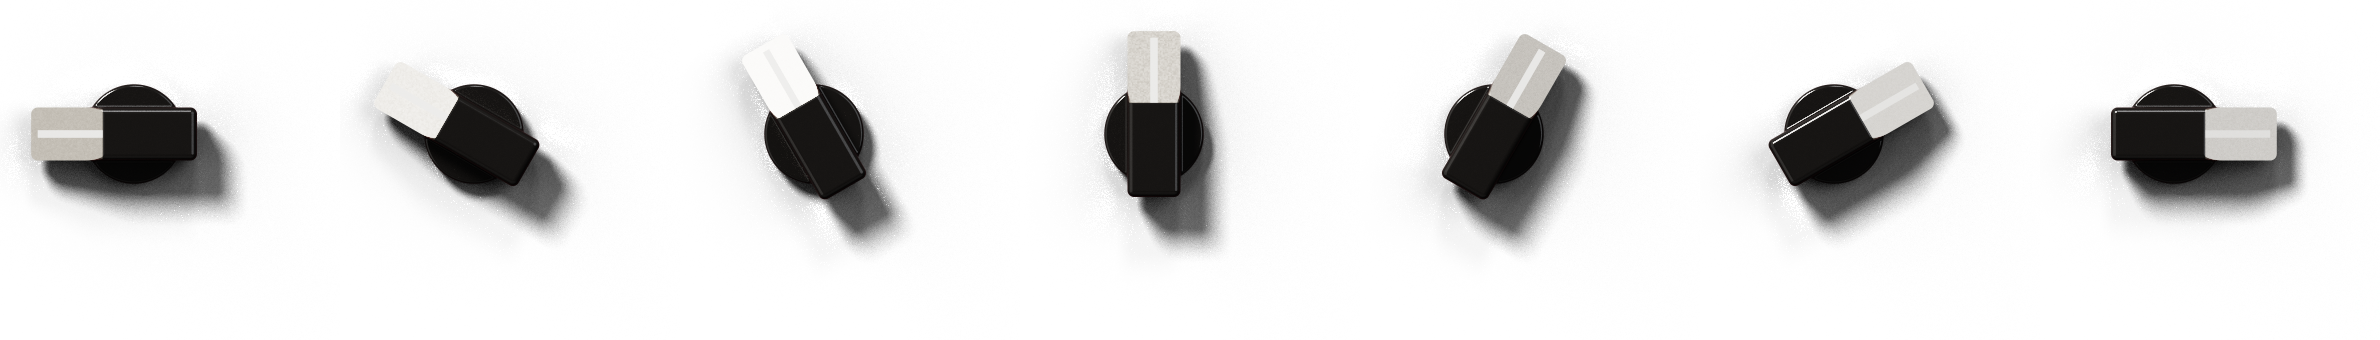
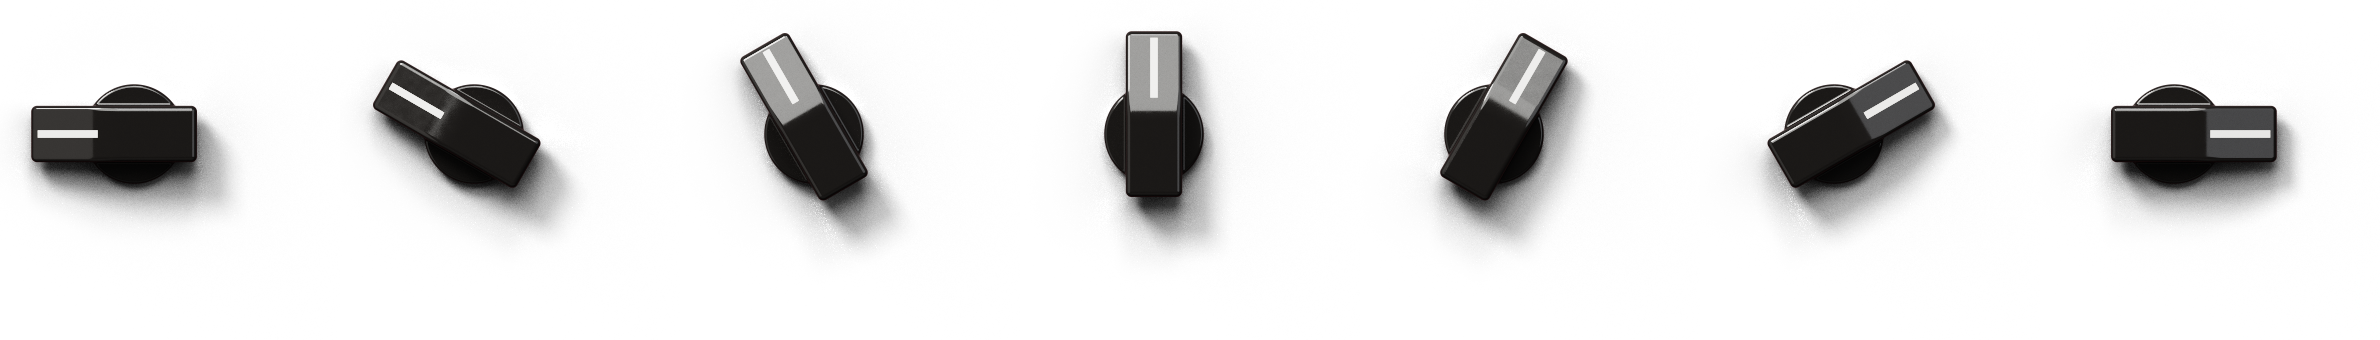
Knobs as on the original: smooth skirt outside, fluted grip inside
The dial was modelled inside out. It is now a low, round, smooth skirt with
the pointer painted on it, a grip above it with nine hollow flutes and sharp
ridges as it narrows, and a flat face on top with a raised lip and a ring;
no star. The bar knob is black bakelite all over: its bevelled end looks
light grey only because it mirrors a large softbox now hung overhead, as in
the photographs of the original. The paint is matt and back to a deep red.

diff --git a/tools/photo.cpp b/tools/photo.cpp
@@ -197,61 +197,52 @@ struct Turned
     float along, across, radius, theta;
 };
 
-/** The big knob: a tall body fluted all the way up, its top rolled over
-    into a smooth, gently domed face with a ring cut round it, the pointer
-    painted on the rim, and the Onirique star inlaid at its heart. */
+/** The big knob, as on the original: a round, smooth skirt at its foot, the
+    pointer painted on it; above it the grip, nine flutes cut round it as it
+    narrows towards the top; on top a flat face, its edge raised in a lip, a
+    ring cut inside it. */
 struct Dial final : Part
 {
-    explicit Dial (float a) : angle (a) { reach = R + 1.0f; top = height + 0.08f * R; }
+    explicit Dial (float a) : angle (a) { reach = R + 1.0f; top = height + 0.06f * R; }
 
-    static constexpr float R = 50.0f, height = 0.46f * R, face = 0.62f * R;
-
-    /** How far inside the star, in units of R. */
-    static float inStar (float theta, float r)
-    {
-        constexpr float tip = 0.11f, waist = 0.3f * tip;
-        const auto phi = std::fabs (wrap (theta - kPi * 0.5f * std::round (theta / (kPi * 0.5f))));
-        const float ex = waist * 0.7071f - tip, ey = waist * 0.7071f;
-        return tip * ey / (std::cos (phi) * ey - std::sin (phi) * ex) - r;
-    }
+    static constexpr float R = 50.0f, height = 0.5f * R, face = 0.5f * R;
 
     float distance (V p) const override
     {
         const Turned t (p, angle);
-        const auto lobe = std::sqrt (0.5f + 0.5f * std::cos (10.0f * t.theta));
 
-        // The body: its flutes run from the foot to the rolled-over top, and it narrows a little as it rises.
-        constexpr float roll = 0.11f * R;
-        const auto edge = R * (0.9f + 0.1f * lobe) * (1.0f - 0.05f * clamp01 (p.z / height));
-        const auto dx = t.radius - edge + roll, dy = std::fabs (p.z - 0.5f * height) - 0.5f * height + roll;
-        const auto body = std::fmin (std::fmax (dx, dy), 0.0f) + std::sqrt (std::fmax (dx, 0.0f) * std::fmax (dx, 0.0f) + std::fmax (dy, 0.0f) * std::fmax (dy, 0.0f)) - roll;
+        // The skirt: a low flange, round and smooth, sloping up towards the grip.
+        constexpr float round = 0.025f * R;
+        const auto skirt = trapezoid (t.radius, p.z - 0.07f * R, R - round, 0.86f * R - round, 0.07f * R - round) - round;
 
-        // The face: a shallow dome inside the rim, a ring cut round it and another inside.
-        constexpr float rise = 0.05f * R, sphere = face * face / (2.0f * rise) + 0.5f * rise;
-        const auto dome = std::fmax (length (p - V { 0, 0, height + rise - sphere }) - sphere, t.radius - face);
-        auto d = smin (body, dome, 0.01f * R);
-        d = std::fmax (d, -torus (p - V { 0, 0, height }, face + 0.01f * R, 0.018f * R));
-        return std::fmax (d, -torus (p - V { 0, 0, height + rise * 0.6f }, 0.42f * R, 0.01f * R));
+        // The grip: fluted, narrowing from the skirt to the face, its top edge rolled.
+        const auto rise = clamp01 (p.z / height);
+        // Each flute a broad hollow, the ridges between them sharp.
+        const auto hollow = std::sqrt (0.5f + 0.5f * std::cos (9.0f * t.theta + kPi));
+        const auto outline = 0.86f * R + (0.6f * R - 0.86f * R) * rise - 0.08f * R * hollow;
+        const auto side = (t.radius - outline) * 0.85f;
+        const auto grip = std::fmax (-smin (-side, height - p.z, 0.04f * R), -p.z);
+
+        // The face: a disc standing a little proud of the grip, its edge a lip.
+        const auto disc = roundCylinder (p - V { 0, 0, height + 0.01f * R }, face, 0.03f * R, 0.022f * R);
+
+        auto d = smin (smin (skirt, grip, 0.02f * R), disc, 0.006f * R);
+        return std::fmax (d, -torus (p - V { 0, 0, height + 0.04f * R }, 0.4f * R, 0.01f * R));
     }
 
     Material material (V p) const override
     {
         const Turned t (p, angle);
-
-        if (p.z > height && inStar (t.theta, t.radius / R) > 0.0f)
-            return Material::ember;
-
-        if (t.radius > 0.7f * R && t.radius < 0.95f * R && p.z > height - 0.1f * R && std::fabs (t.theta) * t.radius < 0.03f * R)
-            return Material::paint;
-
-        return Material::bakelite;
+        return t.radius > 0.87f * R && t.radius < 0.99f * R && std::fabs (t.theta) * t.radius < 0.026f * R
+                   ? Material::paint : Material::bakelite;
     }
 
     float angle;
 };
 
-/** The bar knob of a frequency switch, on its round boss: its pointing end
-    is cut away in a bevel faced with satin metal, a white line down it. */
+/** The bar knob of a frequency switch, on its round boss: a broad black bar,
+    its pointing end cut away in a bevel that catches the softbox above, a
+    white line down it. */
 struct Selector final : Part
 {
     explicit Selector (float a) : angle (a) { reach = 0.7f * L; top = 0.36f * L; }
@@ -262,7 +253,8 @@ struct Selector final : Part
     {
         const Turned t (p, angle);
         const auto boss = roundCylinder (p - V { 0, 0, 0.06f * L }, 0.3f * L, 0.06f * L, 0.02f * L);
-        const auto bar = std::fmax (roundBox ({ t.across, t.along - 0.12f * L, p.z - 0.21f * L }, { 0.16f * L, 0.5f * L, 0.12f * L }, 0.04f * L), bevel (t, p));
+        const auto bar = -smin (-roundBox ({ t.across, t.along - 0.12f * L, p.z - 0.21f * L }, { 0.17f * L, 0.5f * L, 0.12f * L }, 0.035f * L),
+                                -bevel (t, p), 0.03f * L);
         return smin (boss, bar, 0.02f * L);
     }
 
@@ -278,10 +270,8 @@ struct Selector final : Part
     {
         const Turned t (p, angle);
 
-        if (t.along > 0.19f * L && bevel (t, p) > -0.01f * L)
-            return std::fabs (t.across) < 0.022f * L && t.along < 0.58f * L ? Material::paint : Material::nickel;
-
-        return Material::bakelite;
+        return t.along > 0.22f * L && t.along < 0.58f * L && bevel (t, p) > -0.01f * L && std::fabs (t.across) < 0.022f * L
+                   ? Material::paint : Material::bakelite;
     }
 
     float angle;
@@ -597,12 +587,16 @@ bool intersect (const Scene& scene, V o, V d, Hit& hit, float limit = 1.0e30f, c
 }
 
 //==============================================================================
-// The light: a softbox above and to the left, a strip light along the top, a
-// white card on the right, a studio round them, and the lamp when it is lit.
+// The light, as for the photographs of the original: a large softbox
+// overhead, which glossy faces tilted up mirror as grey; a smaller, brighter
+// one above and to the left for the highlights and the shadows; a strip
+// light along the top, a white card on the right, a studio round them, and
+// the lamp when it is lit.
 struct ConeLight { V direction; float cosMax; V radiance; };
 
 const ConeLight kLights[] = {
-    { norm ({ -0.45f, -0.6f, 0.66f }), std::cos (9.0f * kPi / 180.0f), V { 50.0f, 49.0f, 47.0f } },
+    { norm ({ -0.12f, -0.55f, 0.83f }), std::cos (24.0f * kPi / 180.0f), V { 4.6f, 4.6f, 4.5f } },
+    { norm ({ -0.45f, -0.6f, 0.66f }), std::cos (9.0f * kPi / 180.0f), V { 26.0f, 25.5f, 24.5f } },
     { norm ({ 0.05f, -0.8f, 0.6f }), std::cos (6.0f * kPi / 180.0f), V { 9.0f, 9.0f, 9.2f } },
     { norm ({ 0.62f, -0.25f, 0.74f }), std::cos (24.0f * kPi / 180.0f), V { 1.0f, 1.03f, 1.08f } },
 };
@@ -627,7 +621,7 @@ V studio (V d)
     return { v * 1.02f, v, v * 0.97f };
 }
 
-const V kPanelColour { 0.074f, 0.028f, 0.031f };   // a muted red, as a rack front painted in it
+const V kPanelColour { 0.066f, 0.023f, 0.026f };   // a muted red, as a rack front painted in it
 const V kInkColour { 0.74f, 0.73f, 0.7f };
 
 float inkAt (const Scene& scene, float x, float y)
@@ -654,7 +648,7 @@ Surface surfaceAt (const Scene& scene, Hit& hit)
     {
         case Material::panel:
         {
-            // Satin paint: its colour drifts a little from place to place, and
+            // Matt paint: its colour drifts a little from place to place, and
             // its surface has the faint orange peel of a sprayed coat.
             const auto drift = 1.0f + 0.08f * (fbm (p * 0.02f) - 0.5f);
             constexpr float e = 0.15f;
@@ -664,15 +658,15 @@ Surface surfaceAt (const Scene& scene, Hit& hit)
 
             const auto ink = inkAt (scene, p.x, p.y);
             s.albedo = mix (kPanelColour * drift, kInkColour, ink);
-            s.f0 = grey (0.04f);
-            s.rough = 0.5f + 0.1f * ink;
+            s.f0 = grey (0.03f);
+            s.rough = 0.78f - 0.1f * ink;
             break;
         }
 
         case Material::bakelite:
             s.albedo = { 0.012f, 0.011f, 0.0105f };
             s.f0 = grey (0.045f);
-            s.rough = 0.09f + 0.04f * noise (p * 0.35f);
+            s.rough = 0.07f + 0.03f * noise (p * 0.35f);
             break;
 
         case Material::paint:

diff --git a/README.md b/README.md
@@ -13,7 +13,7 @@ son fameux tour du bas. Deux caractères en plus du modèle :
 La façade est celle de l'original, peinte d'un rouge sourd, et ce qu'on voit est
 une photographie : la façade et chaque position de chaque pièce sont modélisées en
 3D et rendues par lancer de rayons (`tools/photo.cpp`), bakélite, chrome, nickel,
-verre taillé et peinture satinée sous une boîte à lumière de studio. Le plugin ne
+verre taillé et peinture mate sous une lumière de studio. Le plugin ne
 fait qu'afficher ces images (`Resources/photo`) : un potard qu'on tourne garde ses
 reflets en place, comme sur une photo de l'appareil.
 
